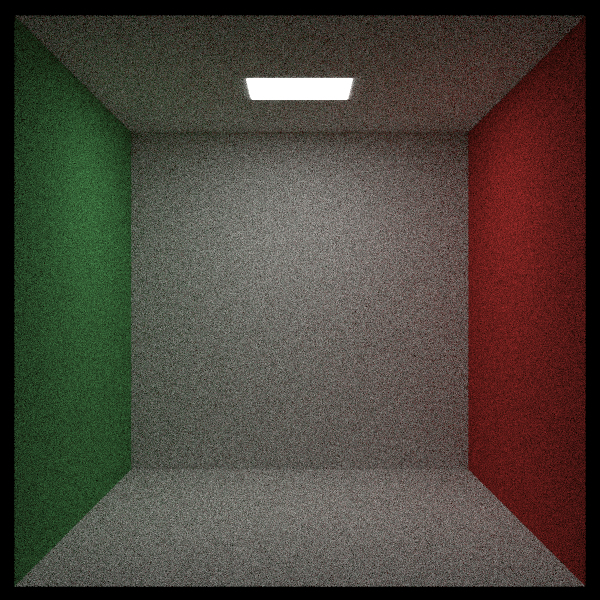
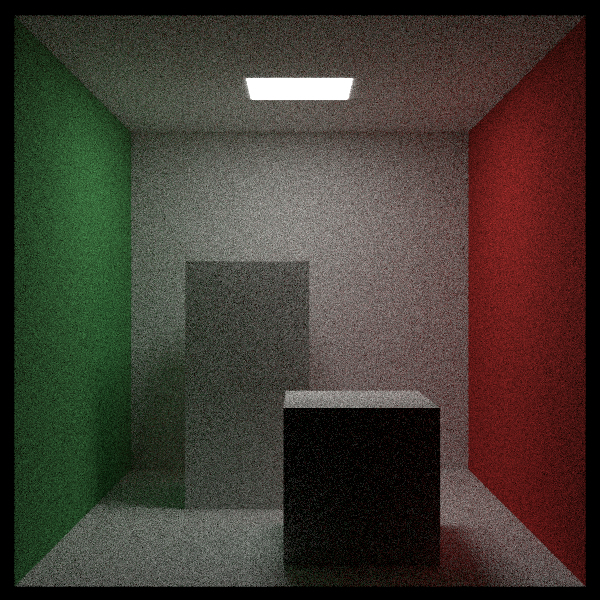
2-image19 genetated

diff --git a/raytracer/src/boxes.rs b/raytracer/src/boxes.rs
@@ -1,0 +1,38 @@
+use std::sync::Arc;
+
+use crate::{vec::Point3, hittable::{HittableList, Hittable}, material::Material, aarect::{XYRect, XZRect, YZRect}, aabb::AABB};
+
+pub struct Boxes {
+    min: Point3,
+    max: Point3,
+    sides: HittableList,
+}
+
+impl Boxes {
+    pub fn new(p0: Point3, p1: Point3, ptr: Arc<dyn Material>) -> Self {
+        let mut sides = HittableList::new();
+        sides.add(Arc::new(XYRect::new(p0.x, p1.x, p0.y, p1.y, p1.z, ptr.clone())));
+        sides.add(Arc::new(XYRect::new(p0.x, p1.x, p0.y, p1.y, p0.z, ptr.clone())));
+
+        sides.add(Arc::new(XZRect::new(p0.x, p1.x, p0.z, p1.z, p1.y, ptr.clone())));
+        sides.add(Arc::new(XZRect::new(p0.x, p1.x, p0.z, p1.z, p0.y, ptr.clone())));
+
+        sides.add(Arc::new(YZRect::new(p0.y, p1.y, p0.z, p1.z, p1.x, ptr.clone())));
+        sides.add(Arc::new(YZRect::new(p0.y, p1.y, p0.z, p1.z, p0.x, ptr)));
+
+        Self {
+            min: p0,
+            max: p1,
+            sides,
+        }
+    }
+}
+
+impl Hittable for Boxes {
+    fn bounding_box(&self, _time0: f64, _time1: f64) -> Option<crate::aabb::AABB> {
+        Some(AABB::new(self.min, self.max))
+    }
+    fn hit(&self, r: crate::ray::Ray, t_min: f64, t_max: f64) -> Option<crate::hittable::HitRecord> {
+        self.sides.hit(r, t_min, t_max)
+    }
+}

diff --git a/raytracer/src/main.rs b/raytracer/src/main.rs
@@ -9,8 +9,10 @@ mod ray;
 mod sphere;
 mod texture;
 mod vec;
+mod boxes;
 
 use aarect::{XYRect, YZRect, XZRect};
+use boxes::Boxes;
 use camera::Camera;
 use console::style;
 use hittable::{Hittable, HittableList};
@@ -407,7 +409,10 @@ fn cornell_box() -> HittableList {
     world.add(Arc::new(XZRect::new(213., 343., 227., 332., 554., light)));
     world.add(Arc::new(XZRect::new(0., 555., 0., 555., 0., white.clone())));
     world.add(Arc::new(XZRect::new(0., 555., 0., 555., 555., white.clone())));
-    world.add(Arc::new(XYRect::new(0., 555., 0., 555., 555., white)));
+    world.add(Arc::new(XYRect::new(0., 555., 0., 555., 555., white.clone())));
+
+    world.add(Arc::new(Boxes::new(Point3::new(130., 0., 65.), Point3::new(295., 165., 230.), white.clone())));
+    world.add(Arc::new(Boxes::new(Point3::new(265., 0., 295.), Point3::new(430., 330., 460.), white)));
 
     world
 }
